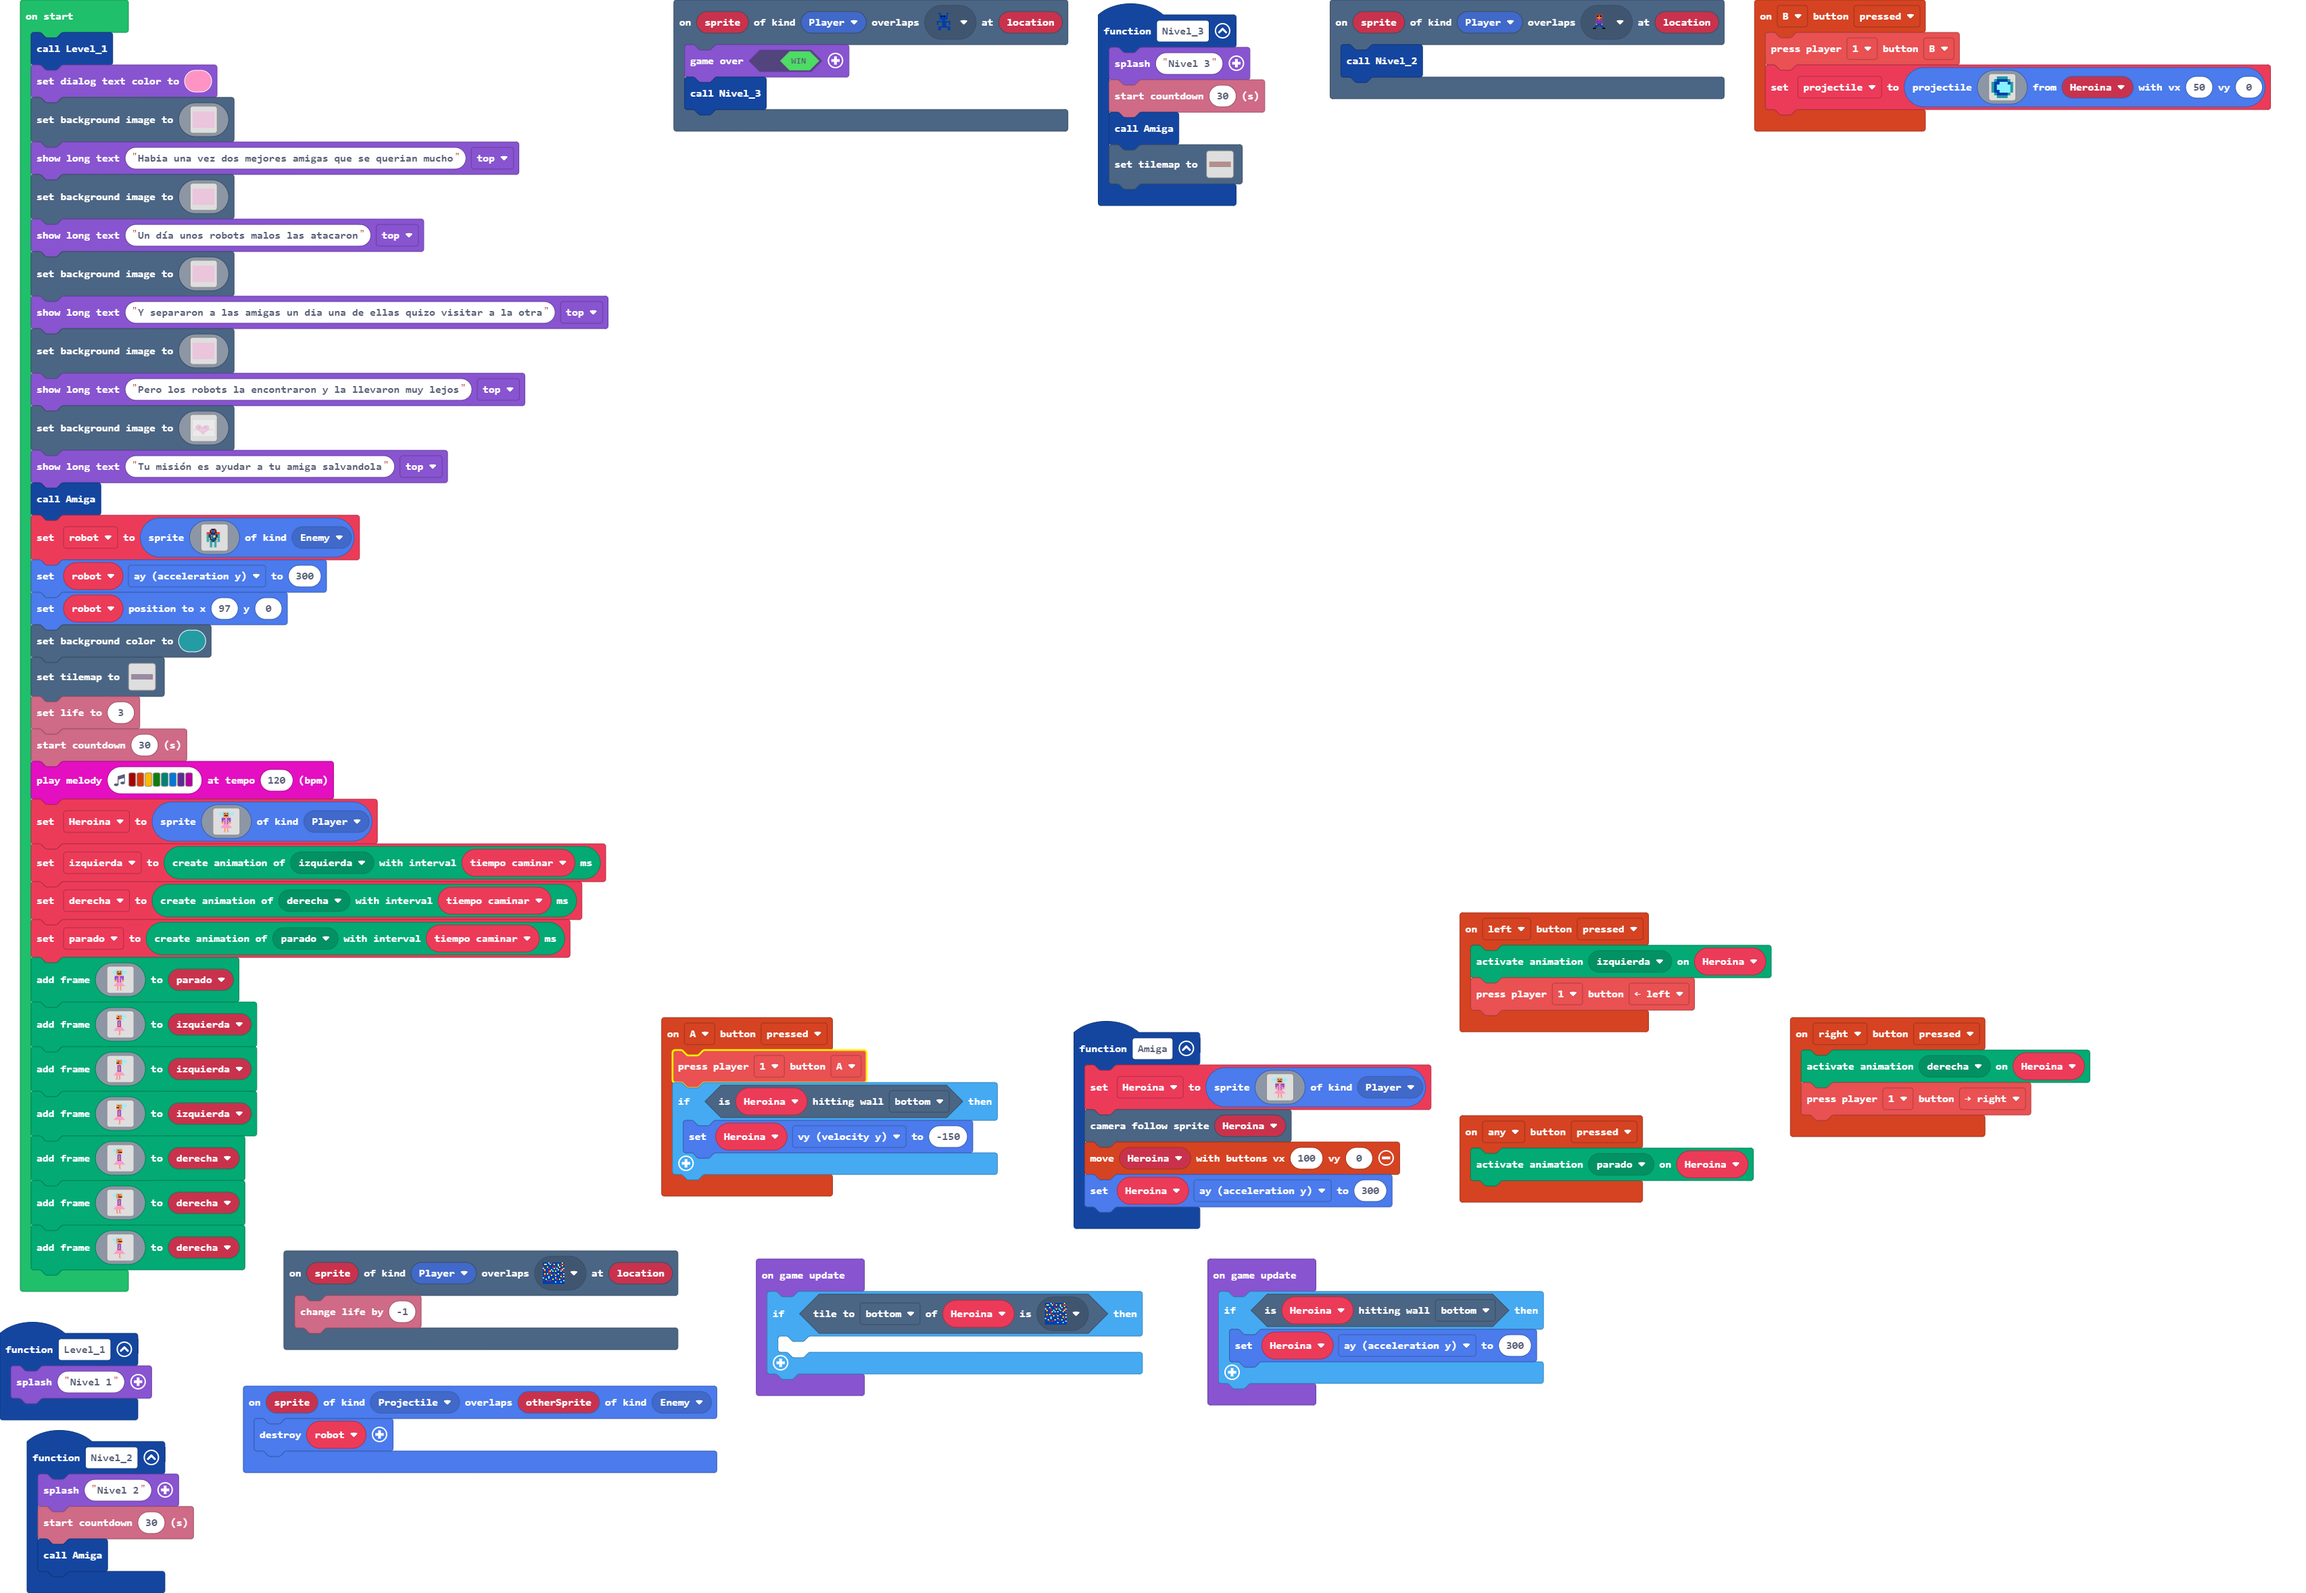
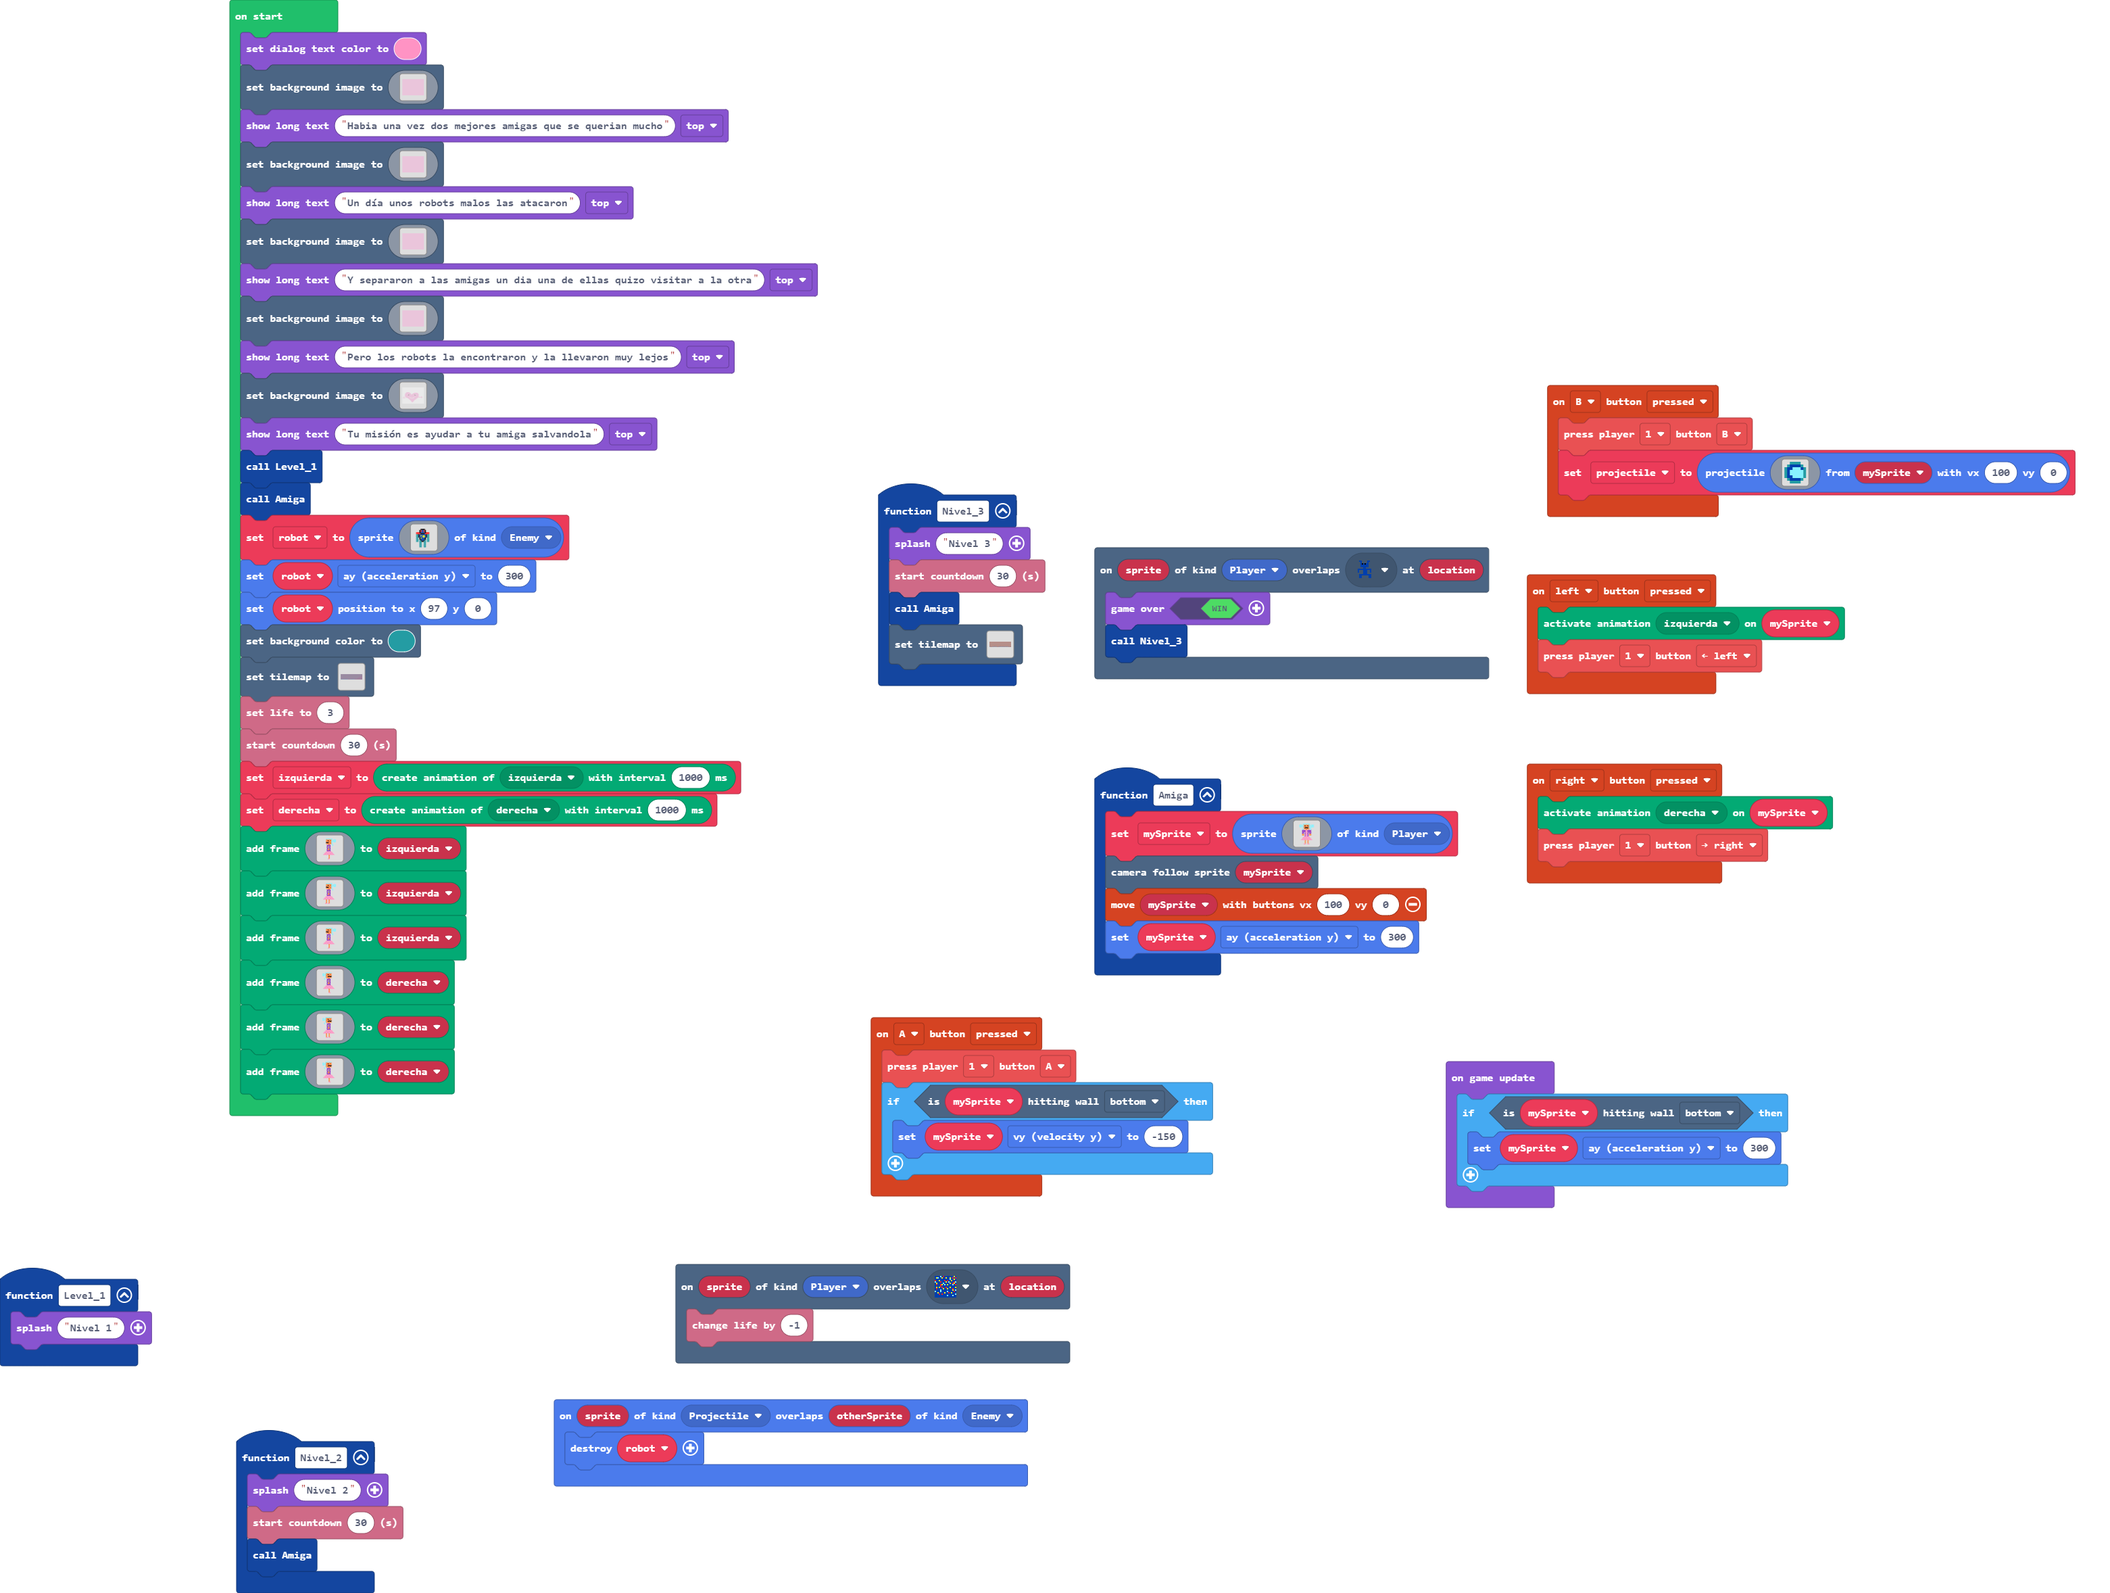
puse bloques para la placa

diff --git a/main.ts b/main.ts
@@ -37,9 +37,6 @@ function Nivel_3 () {
         . . . . 2 2 2 2 . . . . . . . . . . . . . . . 2 2 2 . . . . . . . . . . . . . . . . . . . . . . . . . . . . . . . 2 2 2 . . 2 2 
         `, [myTiles.transparency16,myTiles.tile4,myTiles.tile12,myTiles.tile14], TileScale.Sixteen))
 }
-scene.onOverlapTile(SpriteKind.Player, myTiles.tile3, function (sprite, location) {
-    Nivel_2()
-})
 controller.B.onEvent(ControllerButtonEvent.Pressed, function () {
     makerController.player1.press(ArcadeButton.B)
     projectile = sprites.createProjectileFromSprite(img`
@@ -51,7 +48,7 @@ controller.B.onEvent(ControllerButtonEvent.Pressed, function () {
         6 8 8 9 9 9 9 6 
         . 6 8 8 8 8 6 . 
         . . 6 6 6 6 . . 
-        `, Heroina, 50, 0)
+        `, mySprite, 100, 0)
 })
 function Level_1 () {
     game.splash("Nivel 1")
@@ -59,17 +56,14 @@ function Level_1 () {
 scene.onOverlapTile(SpriteKind.Player, myTiles.tile4, function (sprite, location) {
     info.changeLifeBy(-1)
 })
-controller.anyButton.onEvent(ControllerButtonEvent.Pressed, function () {
-    animation.setAction(Heroina, ActionKind.parado)
-})
 controller.A.onEvent(ControllerButtonEvent.Pressed, function () {
     makerController.player1.press(ArcadeButton.A)
-    if (Heroina.isHittingTile(CollisionDirection.Bottom)) {
-        Heroina.vy = -150
+    if (mySprite.isHittingTile(CollisionDirection.Bottom)) {
+        mySprite.vy = -150
     }
 })
 function Amiga () {
-    Heroina = sprites.create(img`
+    mySprite = sprites.create(img`
         . . . . . . . . . . . . . . . . 
         . . . . 9 9 9 9 9 9 9 9 . . . . 
         9 9 9 . 9 4 4 4 4 4 4 9 . 9 9 9 
@@ -95,16 +89,16 @@ function Amiga () {
         . . . . . . 4 . . 4 . . . . . . 
         . . . . . 3 3 . . 3 3 . . . . . 
         `, SpriteKind.Player)
-    scene.cameraFollowSprite(Heroina)
-    controller.moveSprite(Heroina, 100, 0)
-    Heroina.ay = 300
+    scene.cameraFollowSprite(mySprite)
+    controller.moveSprite(mySprite, 100, 0)
+    mySprite.ay = 300
 }
 controller.left.onEvent(ControllerButtonEvent.Pressed, function () {
-    animation.setAction(Heroina, ActionKind.izquierda)
+    animation.setAction(mySprite, ActionKind.izquierda)
     makerController.player1.press(ArcadeButton.Left)
 })
 controller.right.onEvent(ControllerButtonEvent.Pressed, function () {
-    animation.setAction(Heroina, ActionKind.derecha)
+    animation.setAction(mySprite, ActionKind.derecha)
     makerController.player1.press(ArcadeButton.Right)
 })
 function Nivel_2 () {
@@ -115,11 +109,9 @@ function Nivel_2 () {
 sprites.onOverlap(SpriteKind.Projectile, SpriteKind.Enemy, function (sprite, otherSprite) {
     robot.destroy()
 })
+let mySprite: Sprite = null
 let projectile: Sprite = null
-let tiempo_caminar = 0
-let Heroina: Sprite = null
 let robot: Sprite = null
-Level_1()
 game.setDialogTextColor(3)
 scene.setBackgroundImage(img`
     3 3 3 3 3 3 3 3 3 3 3 3 3 3 3 3 3 3 3 3 3 3 3 3 3 3 3 3 3 3 3 3 3 3 3 3 3 3 3 3 3 3 3 3 3 3 3 3 3 3 3 3 3 3 3 3 3 3 3 3 3 3 3 3 3 3 3 3 3 3 3 3 3 3 3 3 3 3 3 3 3 3 3 3 3 3 3 3 3 3 3 3 3 3 3 3 3 3 3 3 3 3 3 3 3 3 3 3 3 3 3 3 3 3 3 3 3 3 3 3 3 3 3 3 3 3 3 3 3 3 3 3 3 3 3 3 3 3 3 3 3 3 3 3 3 3 3 3 3 3 3 3 3 3 3 3 3 3 3 3 
@@ -736,6 +728,7 @@ scene.setBackgroundImage(img`
     1 1 1 1 1 1 1 1 1 1 1 1 1 1 1 1 1 1 1 1 1 1 1 1 1 1 1 1 1 1 1 1 1 1 1 1 1 1 1 1 1 1 1 1 1 1 1 1 1 1 1 1 1 1 1 1 1 1 1 1 1 1 1 1 1 1 1 1 1 1 1 1 1 1 1 1 1 1 1 1 1 1 1 1 1 1 1 1 1 1 1 1 1 1 1 1 1 1 1 1 1 1 1 1 1 1 1 1 1 1 1 1 1 1 1 1 1 1 1 1 1 1 1 1 1 1 1 1 1 1 1 1 1 1 1 1 1 1 1 1 1 1 1 1 1 1 1 1 1 1 1 1 1 1 1 1 1 1 1 1 
     `)
 game.showLongText("Tu misión es ayudar a tu amiga salvandola", DialogLayout.Top)
+Level_1()
 Amiga()
 robot = sprites.create(img`
     . . . . . . . . . . . . . . . . 
@@ -782,62 +775,8 @@ tiles.setTilemap(tiles.createTilemap(hex`400010000303030303030303030303030303030
     `, [myTiles.transparency16,myTiles.tile3,myTiles.tile4,myTiles.tile5,myTiles.tile6], TileScale.Sixteen))
 info.setLife(3)
 info.startCountdown(30)
-music.playMelody("C5 B A G F E D C ", 120)
-Heroina = sprites.create(img`
-    . . . . . . . . . . . . . . . . 
-    . . . . 9 9 9 9 9 9 9 9 . . . . 
-    9 9 9 . 9 4 4 4 4 4 4 9 . 9 9 9 
-    9 9 9 9 9 4 f 4 4 f 4 9 9 9 9 9 
-    9 9 9 . 9 4 4 4 4 4 4 9 . 9 9 9 
-    . . . . 9 4 f f f f 4 9 . . . . 
-    . . . 9 . 4 4 4 4 4 4 . 9 . . . 
-    . . . 9 . . . 4 4 . . . 9 . . . 
-    . . . a a a a 3 3 a a a a . . . 
-    . . . a a a a 3 3 a a a a . . . 
-    . . . a a . a 3 3 a . a a . . . 
-    . . . a a . a 3 3 a . a a . . . 
-    . . . 4 4 . a 3 3 a . 4 4 . . . 
-    . . . 4 4 . a 3 3 a . 4 4 . . . 
-    . . . . . . a 3 3 a . . . . . . 
-    . . . . . 3 3 3 3 3 3 . . . . . 
-    . . . . 3 3 3 3 3 3 3 3 . . . . 
-    . . . 3 3 3 3 3 3 3 3 3 3 . . . 
-    . . 3 3 3 3 3 3 3 3 3 3 3 3 . . 
-    . . . . . . 4 . . 4 . . . . . . 
-    . . . . . . 4 . . 4 . . . . . . 
-    . . . . . . 4 . . 4 . . . . . . 
-    . . . . . . 4 . . 4 . . . . . . 
-    . . . . . 3 3 . . 3 3 . . . . . 
-    `, SpriteKind.Player)
-let izquierda = animation.createAnimation(ActionKind.izquierda, tiempo_caminar)
-let derecha = animation.createAnimation(ActionKind.derecha, tiempo_caminar)
-let parado = animation.createAnimation(ActionKind.parado, tiempo_caminar)
-parado.addAnimationFrame(img`
-    . . . . . . . . . . . . . . . . 
-    . . . 9 9 9 9 9 9 9 9 . . . . . 
-    9 9 . 9 4 4 4 4 4 4 9 . 9 9 9 . 
-    9 9 9 9 4 f 4 4 f 4 9 9 9 9 9 . 
-    9 9 . 9 4 4 4 4 4 4 9 . 9 9 9 . 
-    . . . 9 4 f f f f 4 9 . . . . . 
-    . . . 9 4 4 4 4 4 4 9 . . . . . 
-    . . 9 . . . 4 4 . . . 9 . . . . 
-    . . a a a a 3 3 a a a a . . . . 
-    . . a a a a 3 3 a a a a . . . . 
-    . . a a . a 3 3 a . a a . . . . 
-    . . a a . a 3 3 a . a a . . . . 
-    . . 4 4 . a 3 3 a . 4 4 . . . . 
-    . . 4 4 . a 3 3 a . 4 4 . . . . 
-    . . . . . a 3 3 a . . . . . . . 
-    . . . . 3 3 3 3 3 3 . . . . . . 
-    . . . 3 3 3 3 3 3 3 3 . . . . . 
-    . . 3 3 3 3 3 3 3 3 3 3 . . . . 
-    . 3 3 3 3 3 3 3 3 3 3 3 3 . . . 
-    . . . . . 4 . . 4 . . . . . . . 
-    . . . . . 4 . . 4 . . . . . . . 
-    . . . . . 4 . . 4 . . . . . . . 
-    . . . . . 4 . . 4 . . . . . . . 
-    . . . . 3 3 . . 3 3 . . . . . . 
-    `)
+let izquierda = animation.createAnimation(ActionKind.izquierda, 1000)
+let derecha = animation.createAnimation(ActionKind.derecha, 1000)
 izquierda.addAnimationFrame(img`
     . . . . . . . . . . . . . . . . 
     . . . . 9 9 9 9 9 9 9 . . . . . 
@@ -995,12 +934,7 @@ derecha.addAnimationFrame(img`
     . . . . . . . 3 3 . . . . . . . 
     `)
 game.onUpdate(function () {
-    if (Heroina.tileKindAt(TileDirection.Bottom, myTiles.tile4)) {
-    	
-    }
-})
-game.onUpdate(function () {
-    if (Heroina.isHittingTile(CollisionDirection.Bottom)) {
-        Heroina.ay = 300
+    if (mySprite.isHittingTile(CollisionDirection.Bottom)) {
+        mySprite.ay = 300
     }
 })
